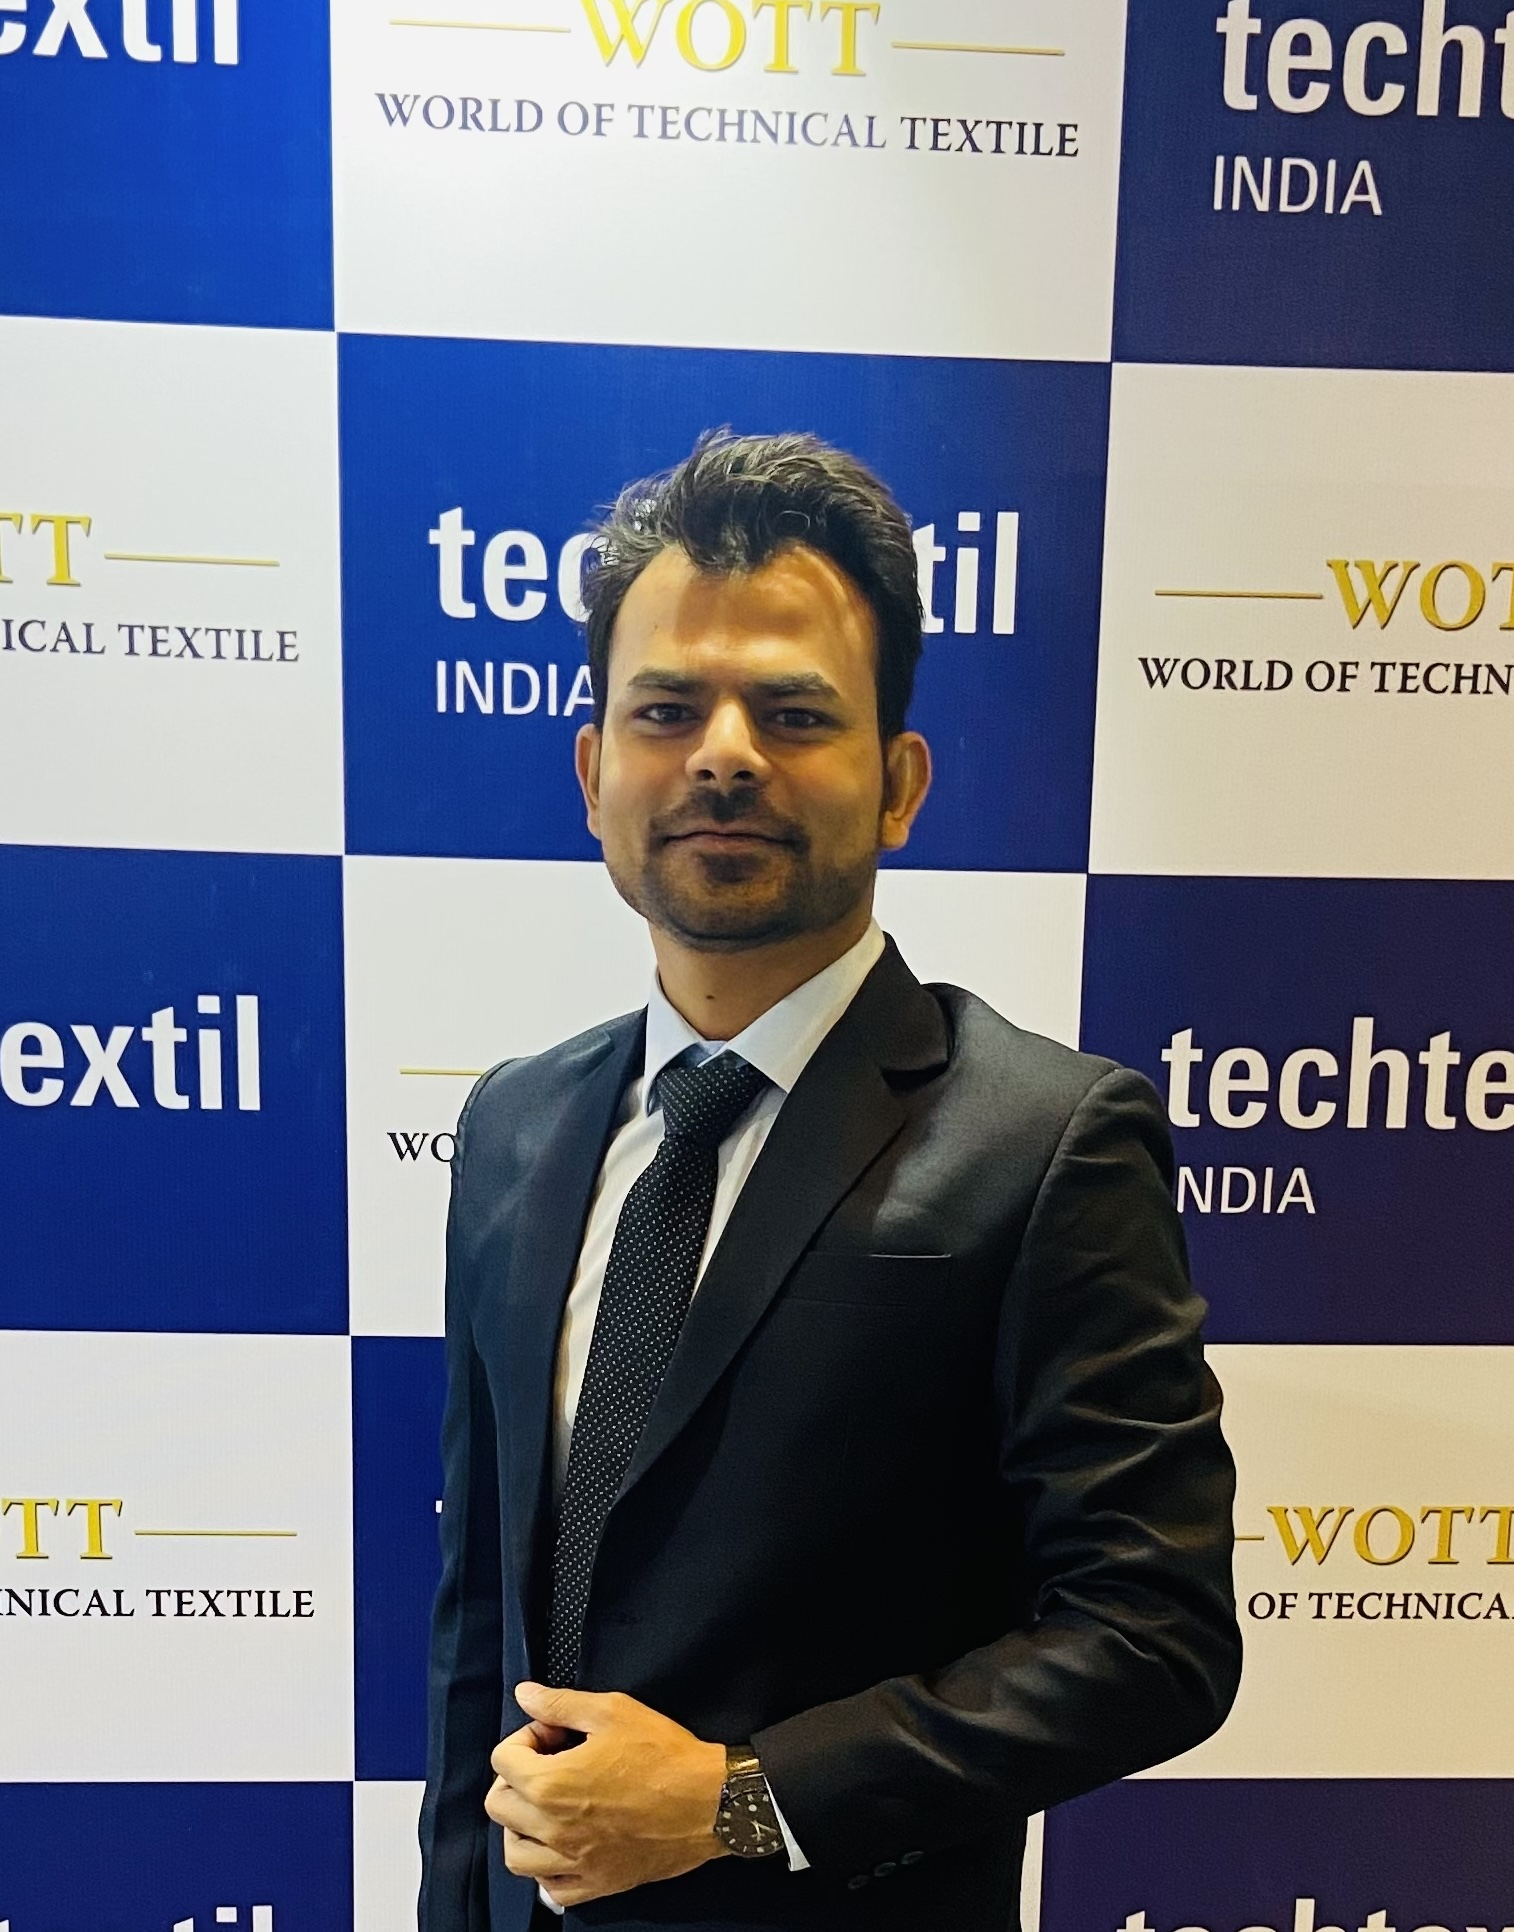
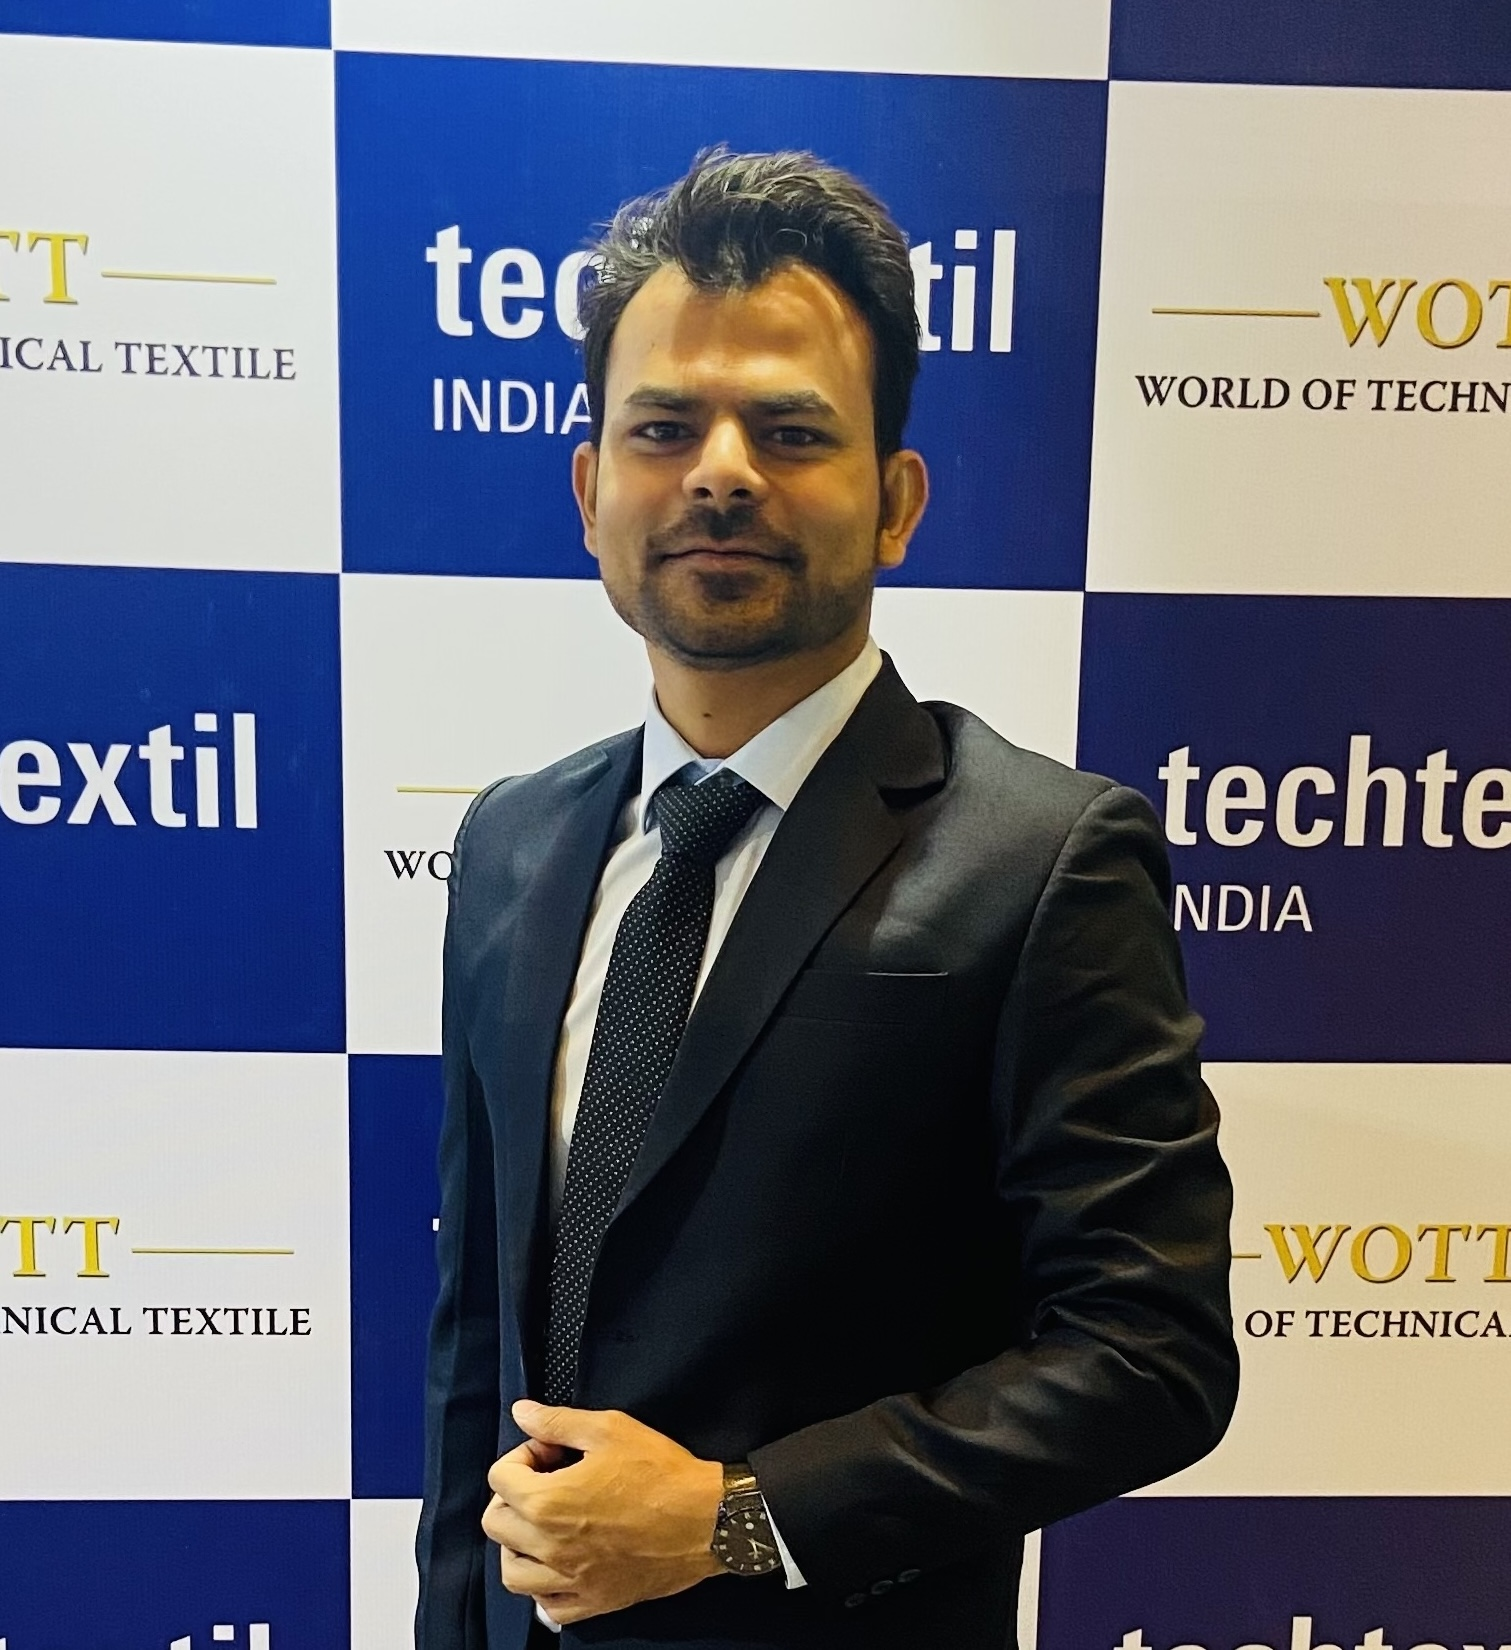
Fix: Corrected Google Maps embed link syntax in Contact component by isolating URL string and setting strict referrer policy

diff --git a/src/tabs/Contact.jsx b/src/tabs/Contact.jsx
@@ -108,11 +108,11 @@ const Contact = () => {
           }}>
             <iframe
               title="KSF Manufacturing Facility GPS Location Frame"
-              src="https://www.google.com/maps/embed?pb=!1m18!1m12!1m3!1d3527.794101416892!2d79.8828551!3d27.846153!2m3!1f0!2f0!3f0!3m2!1i1024!2i768!4f13.1!3m3!1m2!1s0x399f979803bba305%3A0xe54df66432f913d3!2sIndustrial%20Area%20Growth%20Centre%2C%20Jamour!5e0!3m2!1sen!2sin!4v1715000000000!5m2!1sen!2sin"
+              src="https://www.google.com/maps/embed?pb=!1m18!1m12!1m3!1d3528.5221544570063!2d79.84861637562487!3d27.824475876115653!2m3!1f0!2f0!3f0!3m2!1i1024!2i768!4f13.1!3m3!1m2!1s0x399fbd1da6f9a435%3A0xf889235b920ea5a5!2sKSF!5e0!3m2!1sen!2sin!4v1783966249524!5m2!1sen!2sin"
               style={{ width: '100%', height: '100%', border: 0 }}
               allowFullScreen=""
               loading="lazy"
-              referrerPolicy="no-referrer-when-downgrade"
+              referrerPolicy="strict-origin-when-cross-origin"
             ></iframe>
           </div>
 